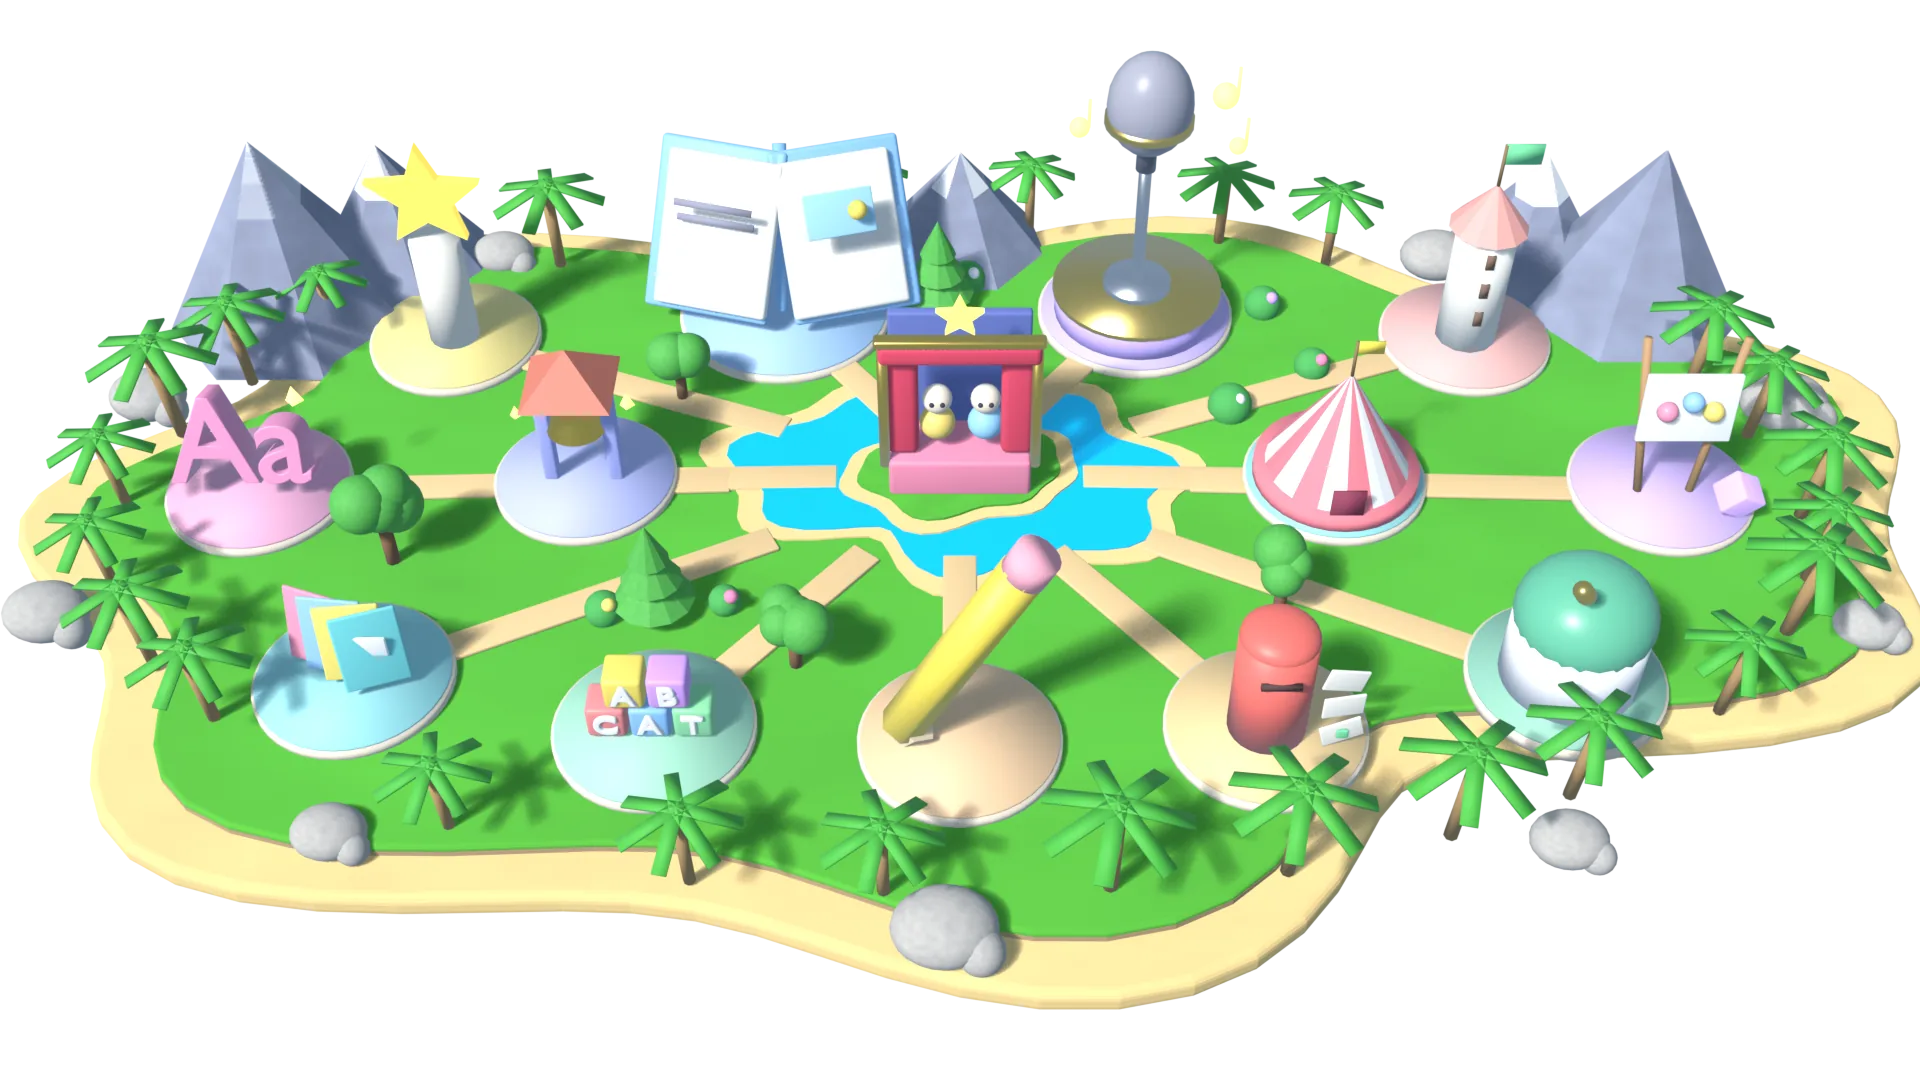
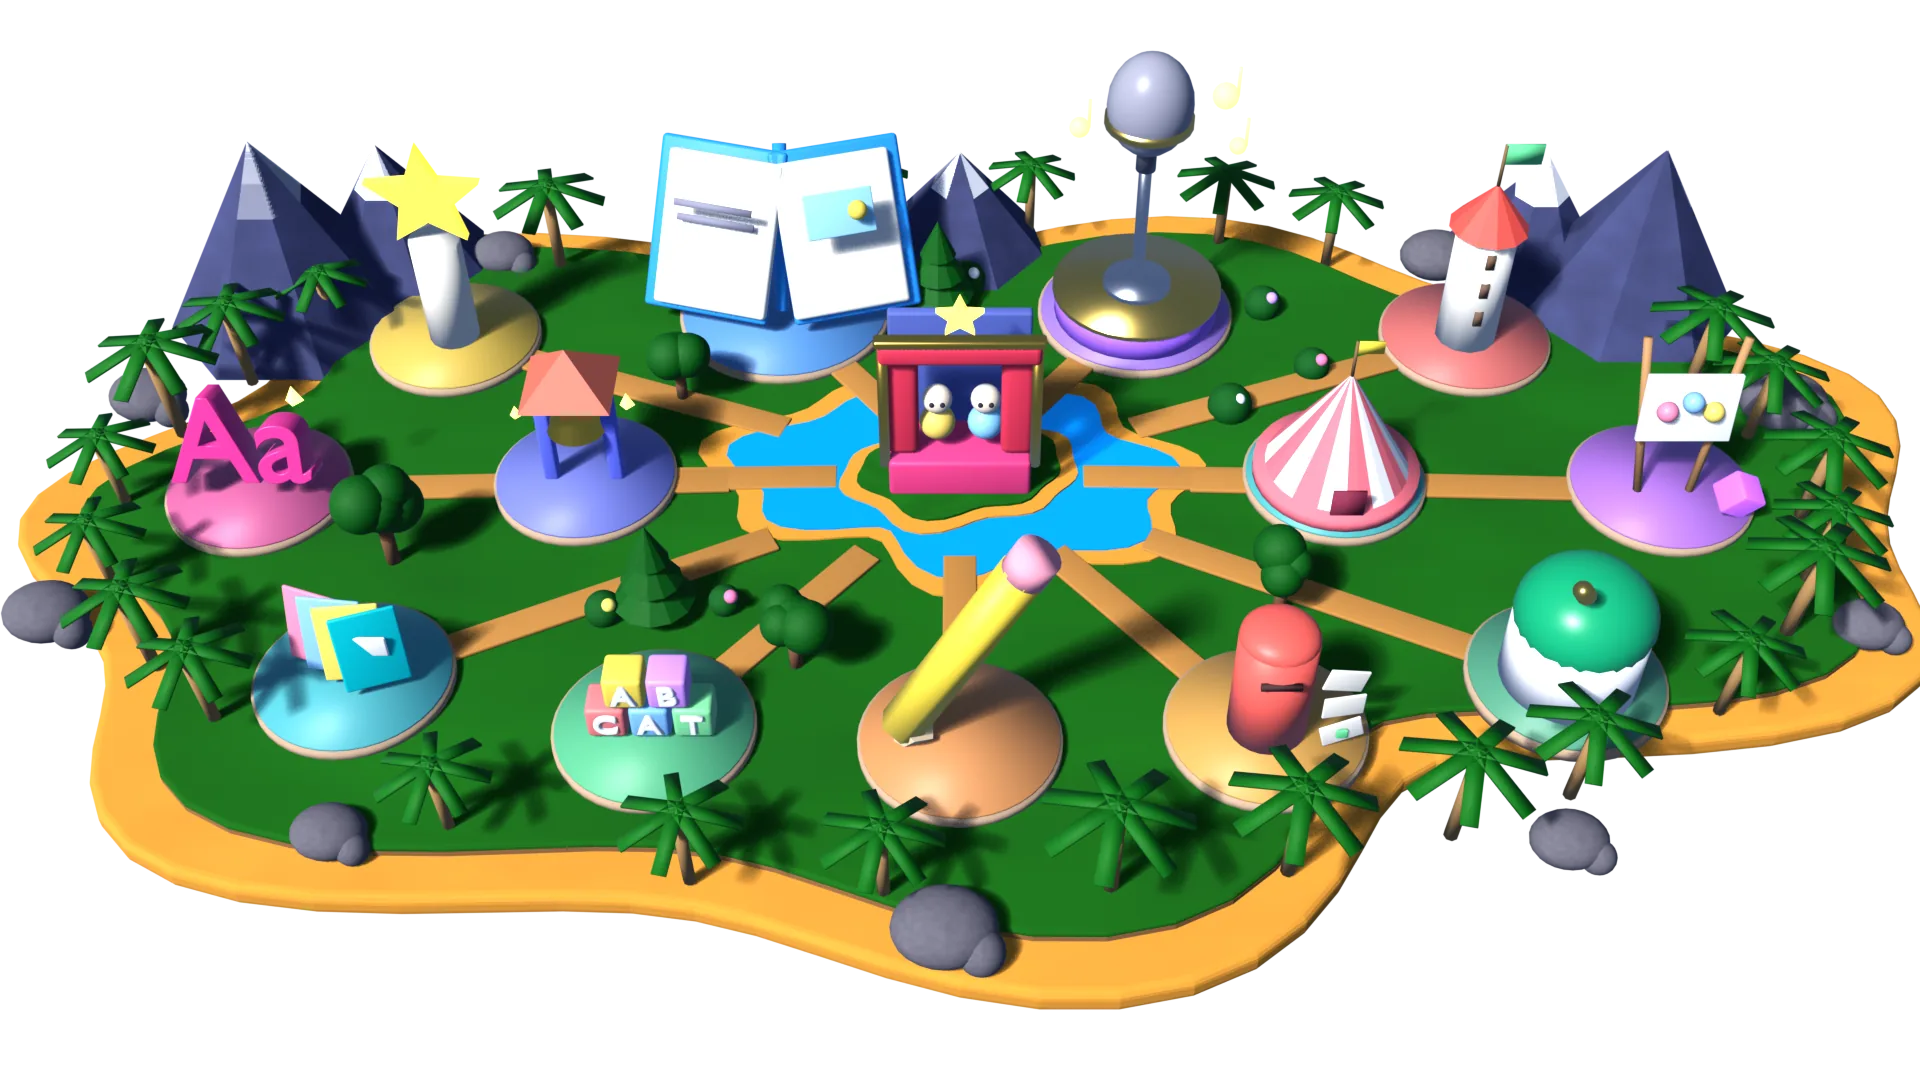
The Living Island, in deeper, richer colours
The island is re-rendered darker and more vibrant: deep green grass and
palms, golden sand and paths, dark mountains and rocks, saturated landmark
colours and higher contrast.

And it comes alive: Polly the parrot flies to the sign a child points at,
says its name and shows 'Let's do Phonics!', while a path of light runs
from the lagoon to that landmark. Music notes rise from the microphone,
stars twinkle round the Tricky Words tower and bubbles rise from the
lagoon. Polly speaks only after a short pause on a sign, so sweeping across
the island stays quiet; tapping a sign also says its name.

diff --git a/src/components/HomeIsland.tsx b/src/components/HomeIsland.tsx
@@ -1,13 +1,24 @@
 "use client";
 
-/* The home screen as an island: one Blender-rendered island floating on the
-   page's own sky (blender/home_island.py), with a landmark for every section
-   and a sign on each. Signs bob gently; hovering lifts one and lights its landmark; tapping
-   one sends a ring of light round it and a glow under its landmark, then
-   opens the section. Clouds and birds drift over, and the island floats. Sign positions come from the render (app/homeIsland.ts). */
+/* The home screen as a living island: one Blender-rendered island floating
+   on the page's own sky (blender/home_island.py), with a landmark for every
+   section and a sign on each. Polly the parrot flies to the sign a child
+   points at and says its name, and a path of light runs from the lagoon to
+   that landmark; tapping a sign sends a ring of light round it and a glow
+   under its landmark, then opens the section. Music notes rise from the
+   microphone, stars twinkle round the Tricky Words tower, bubbles rise from
+   the lagoon, clouds and birds drift over, and the island floats. Sign
+   positions come from the render (app/homeIsland.ts). */
 
-import { useState } from "react";
+import { useEffect, useRef, useState } from "react";
 import { ISLAND_IMAGE, ISLAND_SPOTS, ISLAND_SIZE } from "@/app/homeIsland";
+import { speak } from "@/lib/speak";
+
+/** Where Polly waits when nobody is pointing at anything: by the lagoon. */
+const PERCH: [number, number] = [57, 40];
+
+/** The picture is 16:9; the light path is drawn in a 100 × 56.25 box. */
+const PATH_Y = ISLAND_SIZE.h / ISLAND_SIZE.w;
 
 export type IslandSection = {
   id: string;
@@ -30,10 +41,41 @@ export default function HomeIsland({
 }) {
   const [hover, setHover] = useState<string | null>(null);
   const [lit, setLit] = useState<string | null>(null);
+  const said = useRef<string | null>(null);
+  const sayTimer = useRef<ReturnType<typeof setTimeout> | undefined>(undefined);
+  const target = lit ?? hover;
+  const label = (id: string) => sections.find((s) => s.id === id)?.label ?? "";
+
+  // Polly says the name of the place being pointed at, once it's been
+  // pointed at for a moment (so sweeping across the island stays quiet).
+  useEffect(() => {
+    clearTimeout(sayTimer.current);
+    if (!hover || hover === said.current) return;
+    sayTimer.current = setTimeout(() => {
+      said.current = hover;
+      speak(label(hover), 0.95);
+    }, 450);
+    return () => clearTimeout(sayTimer.current);
+    // eslint-disable-next-line react-hooks/exhaustive-deps
+  }, [hover]);
+  useEffect(() => {
+    if (!hover) said.current = null;
+  }, [hover]);
+
+  const spotOf = (id: string | null) => (id ? ISLAND_SPOTS[id] : undefined);
+  const aim = spotOf(target);
+  // Polly perches just above and to the right of the sign, clear of its words.
+  const polly: [number, number] = aim ? [aim.sign[0] + 6, Math.max(aim.sign[1] - 6.5, 3)] : PERCH;
+  const lagoon = ISLAND_SPOTS.lagoon?.foot ?? [50, 44];
+  const trail = aim && target !== "interactive"
+    ? `M${lagoon[0]} ${lagoon[1] * PATH_Y} Q ${(lagoon[0] + aim.foot[0]) / 2} ${Math.min(lagoon[1], aim.foot[1]) * PATH_Y - 4} ${aim.foot[0]} ${aim.foot[1] * PATH_Y}`
+    : null;
+  const at = (id: string, k: "sign" | "foot") => ISLAND_SPOTS[id]?.[k];
 
   const open = (id: string) => {
     if (lit) return;
     setLit(id);
+    if (said.current !== id) speak(label(id), 0.95);
     setTimeout(() => {
       onOpen(id);
       setLit(null);
@@ -51,6 +93,55 @@ export default function HomeIsland({
         >
           {/* eslint-disable-next-line @next/next/no-img-element */}
           <img src={ISLAND_IMAGE} alt="" draggable={false} className="absolute inset-0 h-full w-full select-none" />
+
+          {/* life on the island: notes from the microphone, stars round the
+              tower, bubbles in the lagoon */}
+          <div aria-hidden className="pointer-events-none absolute inset-0">
+            {at("guided", "foot") &&
+              ["♪", "♫", "♪"].map((n, i) => (
+                <span
+                  key={`n${i}`}
+                  className="island-note absolute"
+                  style={{ left: `${at("guided", "foot")![0] + (i - 1) * 2.4}%`, top: `${at("guided", "foot")![1] - 10}%`, animationDelay: `${i * -1.05}s` }}
+                >
+                  {n}
+                </span>
+              ))}
+            {at("tricky", "sign") &&
+              [[-3, 6], [3.5, 2], [0, -3], [-4.5, 0], [4.5, 9]].map(([dx, dy], i) => (
+                <span
+                  key={`t${i}`}
+                  className="island-twinkle absolute"
+                  style={{ left: `${at("tricky", "sign")![0] + dx}%`, top: `${at("tricky", "sign")![1] + dy}%`, animationDelay: `${i * -0.35}s` }}
+                />
+              ))}
+            {[[-7, 3], [6, 4], [-3, 7], [8, 0]].map(([dx, dy], i) => (
+              <span
+                key={`b${i}`}
+                className="island-bubble absolute"
+                style={{ left: `${lagoon[0] + dx}%`, top: `${lagoon[1] + dy}%`, animationDelay: `${i * -0.65}s` }}
+              />
+            ))}
+          </div>
+
+          {/* the path of light from the lagoon to the place being pointed at */}
+          {trail && (
+            <svg aria-hidden className="island-trail pointer-events-none absolute inset-0 h-full w-full overflow-visible" viewBox={`0 0 100 ${100 * PATH_Y}`} preserveAspectRatio="none">
+              <path d={trail} />
+            </svg>
+          )}
+
+          {/* Polly the parrot, the island's guide */}
+          <div
+            aria-hidden
+            className="island-polly pointer-events-none absolute z-20 -translate-x-1/2 -translate-y-full"
+            style={{ left: `${polly[0]}%`, top: `${polly[1]}%` }}
+          >
+            <span className={`block text-[max(26px,3.6cqw)] leading-none ${target ? "island-polly-flap" : "island-polly-idle"}`}>🦜</span>
+            <span className="absolute bottom-[85%] left-[70%] whitespace-nowrap rounded-[1cqw] bg-white px-[0.9cqw] py-[0.5cqw] text-[max(11px,1.1cqw)] font-extrabold text-zinc-700 shadow-md">
+              {target ? `Let's do ${label(target)}!` : "Hi! Pick a place!"}
+            </span>
+          </div>
 
           {/* light under the landmark being pointed at or opened */}
           {sections.map((s) => {

diff --git a/src/app/globals.css b/src/app/globals.css
@@ -560,3 +560,30 @@ body {
 @media (prefers-reduced-motion: reduce) {
   .island-float, .island-sign-wrap, .island-cloud, .island-bird, .island-halo { animation: none; }
 }
+
+/* Skills Quest: confetti burst on a correct answer. */
+@keyframes quest-confetti {
+  0% { transform: translate(0, 0) rotate(0) scale(1); opacity: 1; }
+  80% { opacity: 1; }
+  100% { transform: translate(var(--dx), calc(var(--dy) + 140px)) rotate(var(--r)) scale(0.6); opacity: 0; }
+}
+.quest-confetti { animation: quest-confetti 1.1s cubic-bezier(0.2, 0.7, 0.4, 1) both; }
+@media (prefers-reduced-motion: reduce) { .quest-confetti { display: none; } }
+
+/* The living island: Polly, the light path and the island's small life. */
+.island-polly { transition: left 0.85s cubic-bezier(0.45, 0.05, 0.3, 1), top 0.85s cubic-bezier(0.45, 0.05, 0.3, 1); }
+.island-polly-flap { animation: polly-flap 0.3s ease-in-out 3; }
+.island-polly-idle { animation: polly-idle 2.4s ease-in-out infinite; }
+@keyframes polly-flap { 50% { transform: translateY(-18%) rotate(-8deg) scale(1.05); } }
+@keyframes polly-idle { 0%,100% { transform: rotate(0); } 50% { transform: rotate(-6deg); } }
+.island-trail path { fill: none; stroke: #fff3a0; stroke-width: 0.55; stroke-linecap: round; stroke-dasharray: 1 1.8; filter: drop-shadow(0 0 0.7px #ffc400); animation: island-march 1s linear infinite; }
+@keyframes island-march { to { stroke-dashoffset: -5.6; } }
+.island-note { font-size: max(14px, 2cqw); font-weight: 800; line-height: 1; color: #ffc400; text-shadow: 0 0 0.6cqw rgba(255, 196, 0, 0.8); animation: island-rise 3.2s ease-out infinite; }
+.island-twinkle { width: max(7px, 1.1cqw); height: max(7px, 1.1cqw); border-radius: 50%; background: radial-gradient(circle, #fff 0 25%, #ffe35a 40%, transparent 70%); animation: island-twinkle 1.8s ease-in-out infinite; }
+.island-bubble { width: max(6px, 0.9cqw); height: max(6px, 0.9cqw); border-radius: 50%; border: 2px solid rgba(255, 255, 255, 0.9); animation: island-rise 2.6s ease-in infinite; }
+@keyframes island-rise { 0% { transform: translate(0, 0); opacity: 0; } 15% { opacity: 1; } 100% { transform: translate(1.5cqw, -9cqw); opacity: 0; } }
+@keyframes island-twinkle { 0%,100% { transform: scale(0.4); opacity: 0.3; } 50% { transform: scale(1.3); opacity: 1; } }
+@media (prefers-reduced-motion: reduce) {
+  .island-polly { transition: none; }
+  .island-polly-flap, .island-polly-idle, .island-trail path, .island-note, .island-twinkle, .island-bubble { animation: none; }
+}

diff --git a/src/app/homeIsland.ts b/src/app/homeIsland.ts
@@ -4,7 +4,7 @@
 export const ISLAND_SIZE = { w: 1920, h: 1080 };
 
 /** The picture, with its version so browsers fetch a new render. */
-export const ISLAND_IMAGE = "/images/home-island.webp?v=9c1680c18f";
+export const ISLAND_IMAGE = "/images/home-island.webp?v=0e7ba470c1";
 
 export const ISLAND_SPOTS: Record<string, { sign: [number, number]; foot: [number, number] }> = {
   "tricky": {

diff --git a/blender/home_island.py b/blender/home_island.py
@@ -60,20 +60,20 @@ SIGN_LIFT = {"stories": 1.75, "guided": 2.45, "interactive": 1.35}
 
 # Section colours, linear (a touch deeper than the app's pastels, for walls).
 COL = {
-    "phonics": (0.95, 0.35, 0.6),
-    "soundout": (0.45, 0.5, 1.0),
-    "flashcards": (0.2, 0.75, 0.78),
-    "formation": (1.0, 0.6, 0.25),
-    "spelling": (0.3, 0.8, 0.5),
-    "tricky": (1.0, 0.8, 0.15),
-    "stories": (0.3, 0.6, 1.0),
-    "storyplay": (0.2, 0.75, 0.75),
-    "guided": (0.6, 0.45, 1.0),
-    "assessment": (1.0, 0.45, 0.4),
-    "threed": (0.7, 0.45, 1.0),
-    "assignments": (1.0, 0.65, 0.2),
-    "tracker": (0.15, 0.55, 0.35),
-    "interactive": (0.95, 0.3, 0.45),
+    "phonics": (0.9, 0.08, 0.38),
+    "soundout": (0.2, 0.25, 0.95),
+    "flashcards": (0.0, 0.62, 0.68),
+    "formation": (1.0, 0.38, 0.04),
+    "spelling": (0.05, 0.68, 0.28),
+    "tricky": (1.0, 0.68, 0.0),
+    "stories": (0.05, 0.4, 0.95),
+    "storyplay": (0.0, 0.62, 0.6),
+    "guided": (0.45, 0.2, 0.95),
+    "assessment": (0.95, 0.15, 0.12),
+    "threed": (0.6, 0.18, 0.95),
+    "assignments": (1.0, 0.5, 0.0),
+    "tracker": (0.02, 0.45, 0.22),
+    "interactive": (0.9, 0.1, 0.3),
 }
 
 
@@ -139,8 +139,8 @@ def hut(x, y, colour, w=0.55, h=0.42, roof_colour=(0.75, 0.22, 0.15)):
 
 def pad(x, y, colour, r=0.62):
     """A round stone plaza under each landmark."""
-    p = W.cylinder(r, 0.08, (x, y, 0.08), I.material("Plaza", (0.85, 0.75, 0.6), rough=0.8), vertices=40)
-    W.cylinder(r * 0.97, 0.02, (x, y, 0.125), I.material("PlazaTop", tuple(min(1, c * 0.75 + 0.18) for c in colour), rough=0.6), vertices=40)
+    p = W.cylinder(r, 0.08, (x, y, 0.08), I.material("Plaza", (0.55, 0.4, 0.28), rough=0.8), vertices=40)
+    W.cylinder(r * 0.97, 0.02, (x, y, 0.125), I.material("PlazaTop", tuple(min(1, c * 0.55 + 0.12) for c in colour), rough=0.5), vertices=40)
     return p
 
 
@@ -383,34 +383,41 @@ def build():
     scene.camera = cam
     I.sun(scene)
     sun = bpy.data.objects["Sun"]
-    sun.data.energy = 4.2
+    sun.data.energy = 3.6
     bg = next(n for n in scene.world.node_tree.nodes if n.type == "BACKGROUND")
-    bg.inputs[0].default_value = (0.55, 0.75, 1.0, 1)
-    bg.inputs[1].default_value = 0.42
+    bg.inputs[0].default_value = (0.45, 0.62, 1.0, 1)
+    bg.inputs[1].default_value = 0.24
+    # Punchier contrast for deep, vibrant colour.
+    for look in ("AgX - High Contrast", "High Contrast", "Medium High Contrast"):
+        try:
+            scene.view_settings.look = look
+            break
+        except TypeError:
+            continue
 
     # The beach, a low cliff and the grass (no water round it: the island
     # floats on the app's own sky).
-    sand = I.material("Sand", (1.0, 0.68, 0.28), rough=0.9, noise=0.1, noise_scale=20)
+    sand = I.material("Sand", (0.8, 0.38, 0.06), rough=0.9, noise=0.12, noise_scale=20)
     slab("Beach", outline(6.15, 3.45, 1.0, 4), -0.2, -0.02, sand, bevel=0.06)
-    cliff = I.material("Cliff", (0.55, 0.36, 0.2), rough=0.9, noise=0.2, noise_scale=10)
+    cliff = I.material("Cliff", (0.4, 0.2, 0.08), rough=0.9, noise=0.2, noise_scale=10)
     land = outline(5.7, 3.1, 1.1, 4)
     slab("Cliff", land, -0.05, 0.02, cliff)
-    grass = I.material("Grass", (0.1, 0.5, 0.04), rough=0.9, noise=0.2, noise_scale=7)
+    grass = I.material("Grass", (0.012, 0.17, 0.008), rough=0.9, noise=0.3, noise_scale=7)
     slab("Grass", land, 0.0, 0.06, grass, bevel=0.05)
 
     # The lagoon in the middle, with a sandy rim and a little island.
     lx, ly = LAGOON
     rim = [(lx + px * 1.0, ly + py) for px, py in outline(1.55, 1.0, 1.4, 9, n=64)]
-    slab("LagoonRim", rim, 0.0, 0.075, I.material("Rim", (1.0, 0.7, 0.3), rough=0.9))
+    slab("LagoonRim", rim, 0.0, 0.075, I.material("Rim", (0.8, 0.38, 0.06), rough=0.9))
     pool = [(lx + px, ly + py) for px, py in outline(1.38, 0.86, 1.4, 9, n=64)]
-    slab("Lagoon", pool, 0.0, 0.085, W.glow_material("LagoonWater", (0.0, 0.5, 0.9), 0.2))
+    slab("Lagoon", pool, 0.0, 0.085, W.glow_material("LagoonWater", (0.0, 0.32, 0.85), 0.25))
     isle_sand = [(lx + px, ly + py) for px, py in outline(0.82, 0.5, 0.8, 2, n=48)]
-    slab("IsletSand", isle_sand, 0.0, 0.1, I.material("IsletSand", (1.0, 0.7, 0.3), rough=0.9))
+    slab("IsletSand", isle_sand, 0.0, 0.1, I.material("IsletSand", (0.8, 0.38, 0.06), rough=0.9))
     islet = [(lx + px, ly + 0.02 + py) for px, py in outline(0.7, 0.42, 0.8, 2, n=48)]
     slab("Islet", islet, 0.0, 0.12, grass)
 
     # Paths from the lagoon out to every landmark.
-    dirt = I.material("Path", (0.85, 0.6, 0.3), rough=0.9)
+    dirt = I.material("Path", (0.55, 0.28, 0.08), rough=0.9)
     for zone, (zx, zy) in ZONES.items():
         if zone == "interactive":
             continue
@@ -424,7 +431,7 @@ def build():
         LANDMARKS[zone](zx, zy, COL[zone])
 
     # Mountains at the back corners, palms on the beach, trees and bushes.
-    rockc = I.material("Mountain", (0.3, 0.33, 0.45), rough=0.85, noise=0.25, noise_scale=6)
+    rockc = I.material("Mountain", (0.08, 0.09, 0.2), rough=0.85, noise=0.3, noise_scale=6)
     snow = I.material("Snowcap", (0.96, 0.97, 1.0), rough=0.6)
     for (mx, my, mh, mr) in ((-5.0, 2.2, 1.5, 0.9), (-4.3, 2.75, 1.1, 0.7), (5.0, 2.25, 1.4, 0.85), (4.35, 2.75, 1.0, 0.65), (0.0, 2.95, 0.9, 0.7)):
         W.cone(mr, 0.0, mh, (mx, my, mh / 2), rockc, vertices=7)
@@ -435,7 +442,7 @@ def build():
         x, y = math.cos(a) * 5.65, math.sin(a) * 3.15
         if clear_of_zones(x, y, 0.8):
             W.palm(x, y, scale=rnd.uniform(1.0, 1.35))
-    palette = dict(tree=(0.1, 0.48, 0.08))
+    palette = dict(tree=(0.008, 0.15, 0.015))
     for k in range(80):
         x, y = rnd.uniform(-5.2, 5.2), rnd.uniform(-2.6, 2.7)
         if (x / 5.3) ** 2 + (y / 2.85) ** 2 > 0.85 or not clear_of_zones(x, y):
@@ -443,11 +450,11 @@ def build():
         if rnd.random() < 0.55:
             W.tree(x, y, palette, "pine" if rnd.random() < 0.3 else "round", scale=rnd.uniform(1.1, 1.5))
         else:
-            I.blob((x, y, 0.12), rnd.uniform(0.1, 0.16), I.material("Bush", (0.08, 0.45, 0.1), rough=0.8))
+            I.blob((x, y, 0.12), rnd.uniform(0.1, 0.16), I.material("Bush", (0.008, 0.14, 0.02), rough=0.8))
             I.blob((x + 0.05, y - 0.06, 0.22), 0.045, I.material("Bloom", rnd.choice([(1, 0.3, 0.5), (1, 0.85, 0.2), (0.75, 0.45, 1), (1, 1, 1)])))
     for k in range(10):
         a = k * math.tau / 10 + 0.3
-        W.rock(math.cos(a) * 6.1, math.sin(a) * 3.4, (0.5, 0.48, 0.45), scale=rnd.uniform(0.8, 1.3))
+        W.rock(math.cos(a) * 6.1, math.sin(a) * 3.4, (0.18, 0.17, 0.2), scale=rnd.uniform(0.8, 1.3))
 
     # Where each landmark lands on the picture: the sign goes above it.
     spots = {}

diff --git a/blender/worlds.py b/blender/worlds.py
@@ -401,7 +401,7 @@ def palm(x, y, scale=1.0):
     trunk = I.material("Palm", (0.45, 0.28, 0.12), rough=0.9)
     t = cylinder(0.035 * scale, 0.6 * scale, (x, y, 0.3 * scale), trunk, vertices=8)
     I.tilt(t, (math.radians(6), 0, 0))
-    leaf = I.material("Frond", (0.08, 0.5, 0.06), rough=0.7)
+    leaf = I.material("Frond", (0.01, 0.2, 0.015), rough=0.7)
     for k in range(7):
         a = k * math.tau / 7
         l = I.box("Frond", (0.36 * scale, 0.08 * scale, 0.015), (x + math.cos(a) * 0.16 * scale, y + math.sin(a) * 0.16 * scale, 0.6 * scale), leaf, bevel=0)
